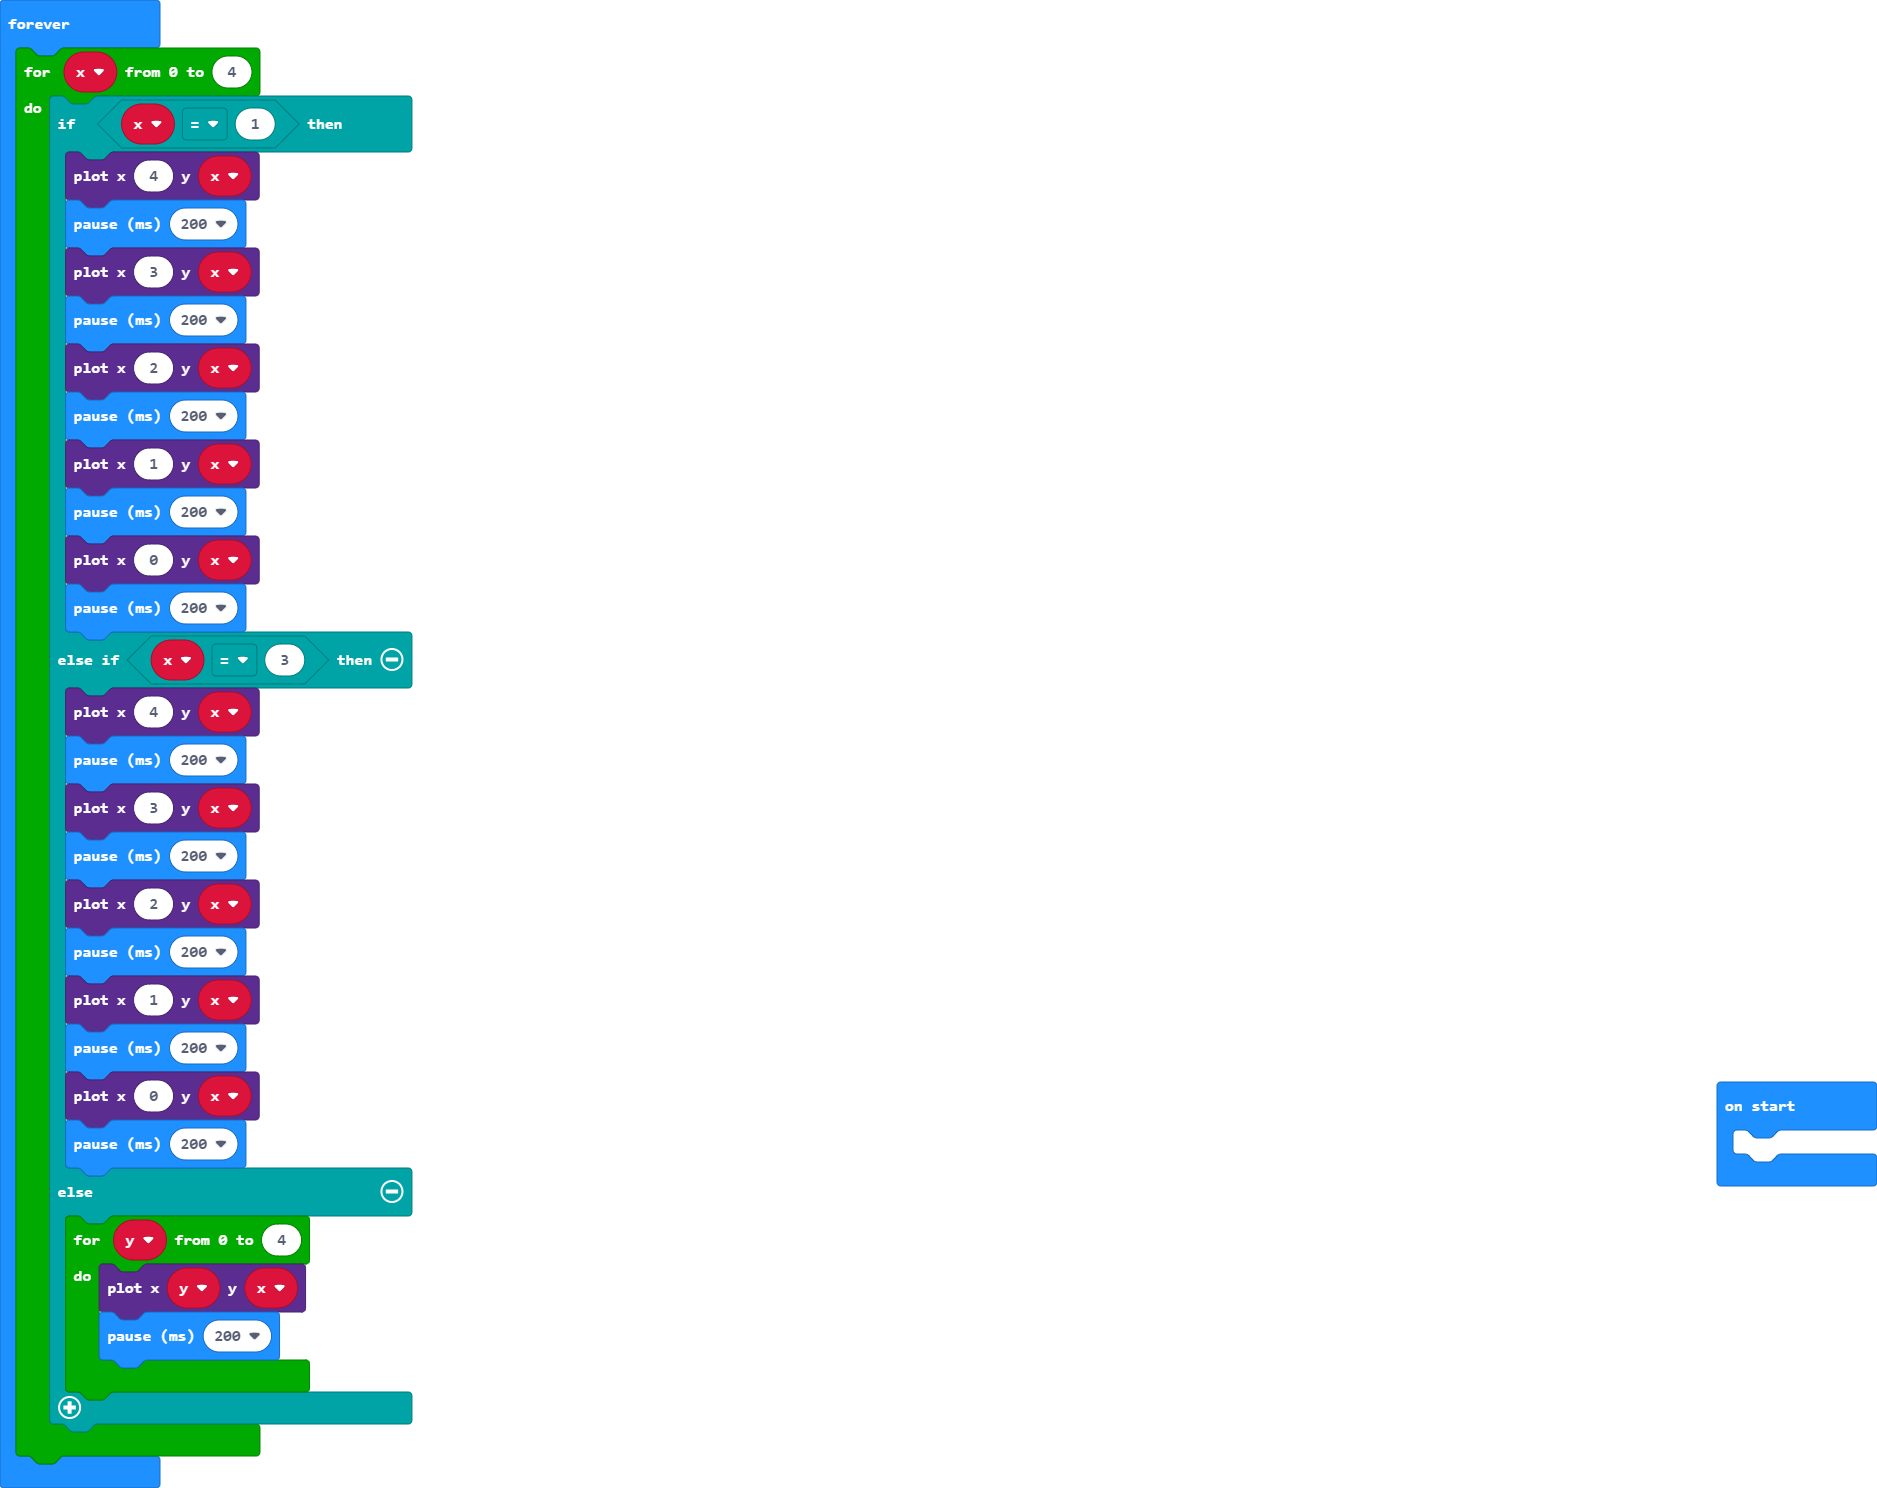
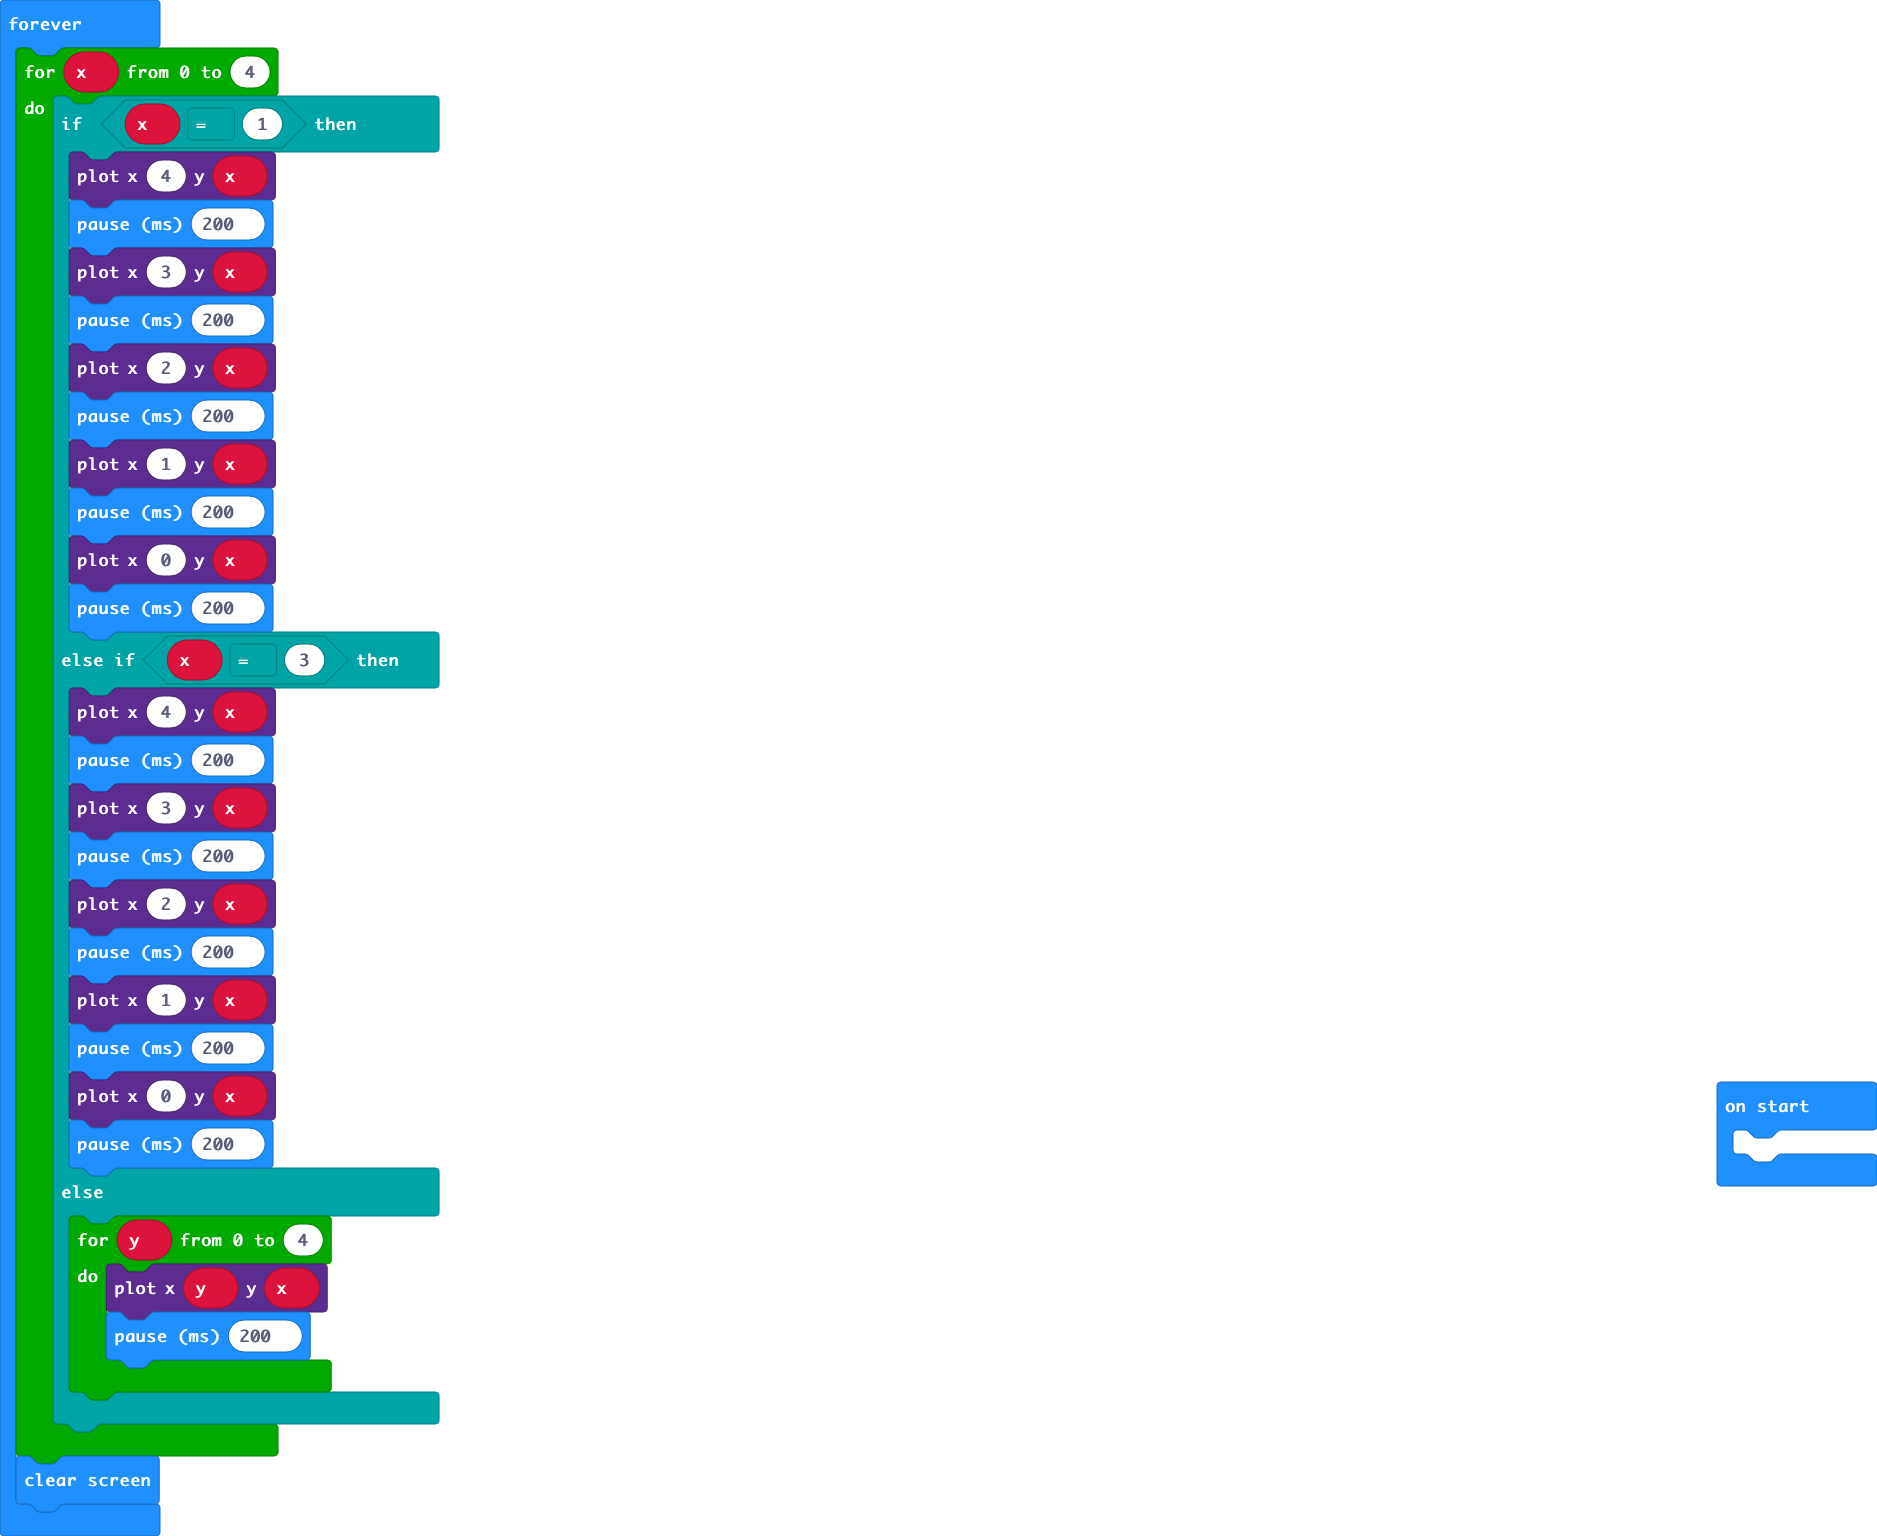
Update main.blocks, main.ts

Changed region(s): [[0.0, 0.0, 0.2472, 0.9892], [0.8961, 0.6801, 1.0, 0.8038]]

diff --git a/main.ts b/main.ts
@@ -29,4 +29,5 @@ basic.forever(function () {
             }
         }
     }
+    basic.clearScreen()
 })
